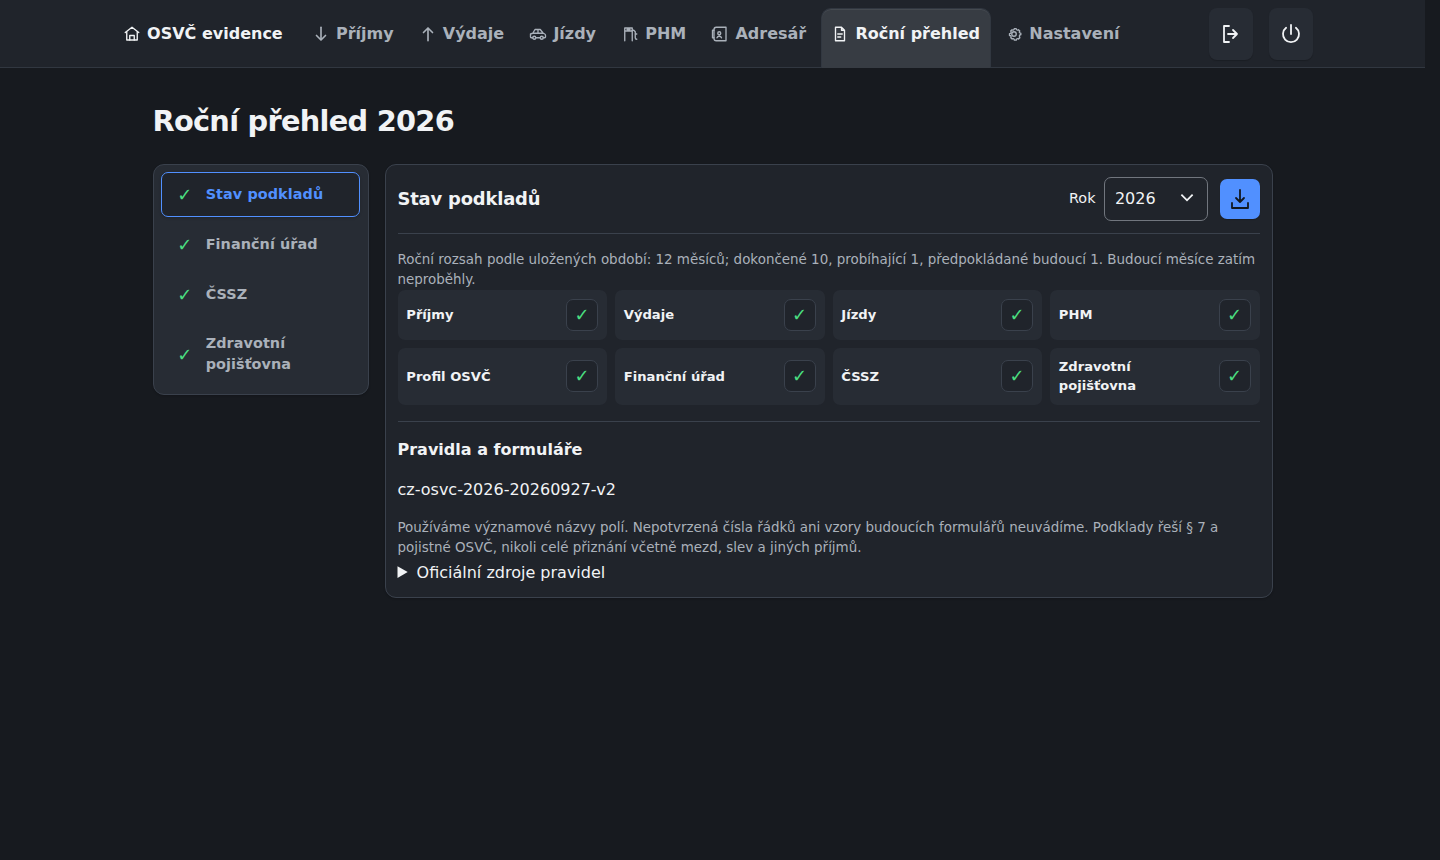
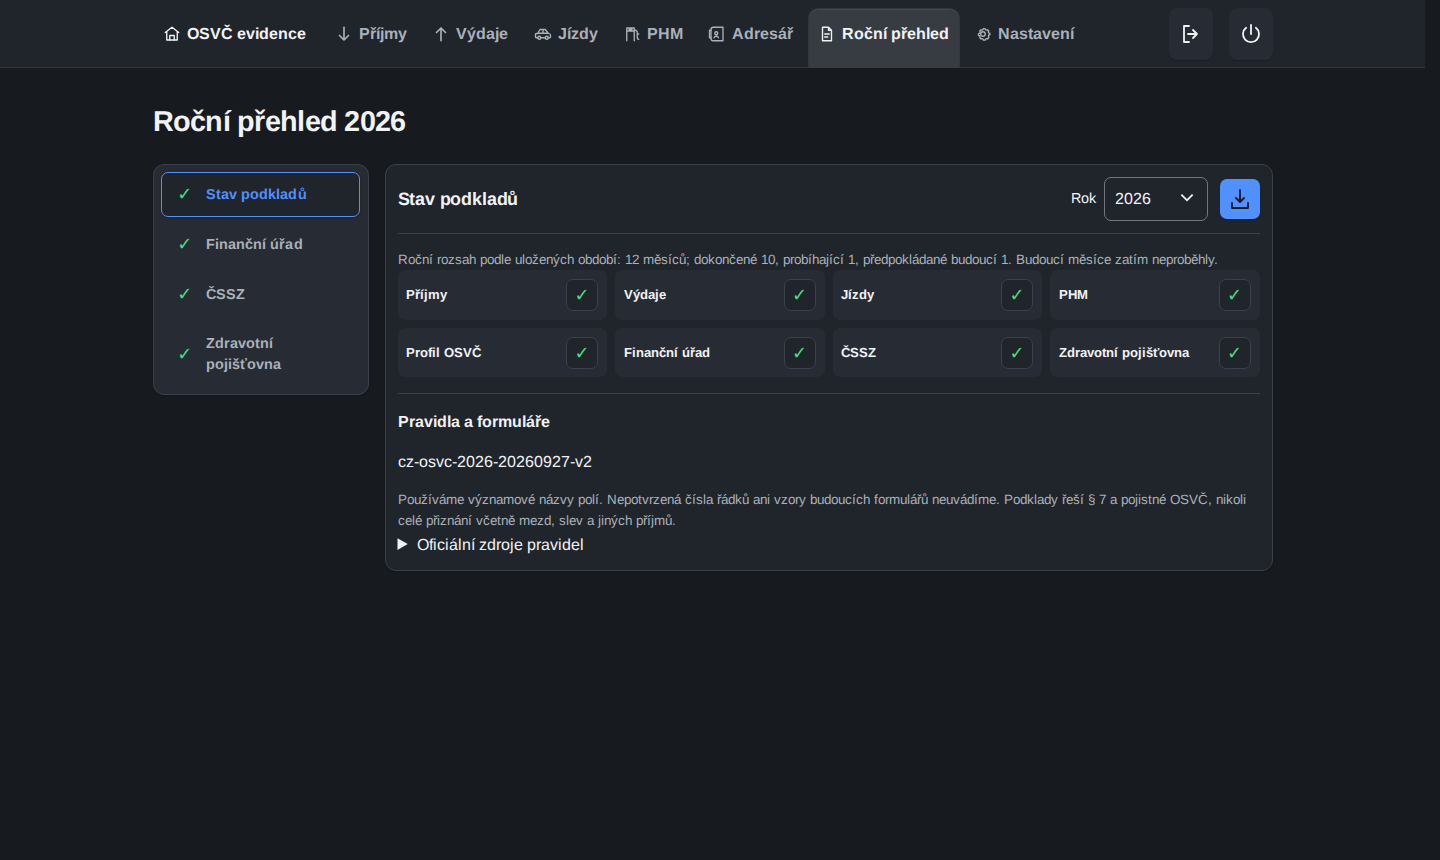
Obrázky README podle Windows (celé menu s texty), menu v původní podobě

diff --git a/osvc_app/static/ux.css b/osvc_app/static/ux.css
@@ -605,6 +605,3 @@ section:has(> .list-heading [data-edit-toggle]:not(:checked)) .akce-sloupec{disp
 .pruvodce-nadpis{margin:.2rem 0 0}
 /* Síťový přístup */
 .sit-form{display:grid;gap:.7rem;max-width:640px}.sit-form label.checkline{display:flex;gap:.6rem;align-items:baseline;font-weight:400}.sit-form .checkline input{width:auto;min-height:auto;flex:none}.sit-form .checkline small{display:block}.sit-domaci{display:grid;gap:.6rem;border-left:3px solid var(--color-border);padding-left:.8rem}.sit-domaci[hidden]{display:none}.sit-poznamka{font-size:.85rem;color:var(--color-muted);margin:0}.sit-poznamka[hidden]{display:none}.sit-nova-adresa{font-size:1.3rem}.sit-stav code{overflow-wrap:anywhere}
-/* Horní menu: na širokých obrazovkách o kus širší než obsah stránky, aby se vešly i texty (širší písma, např. na Linuxu).
-   O zobrazení textů/ikon dál rozhoduje měření v ui.js (nav-compact) – platí pro každé písmo i přiblížení. */
-@media(min-width:1320px){.app-nav-inner{max-width:calc(var(--page-max-width) + 5rem)}}
